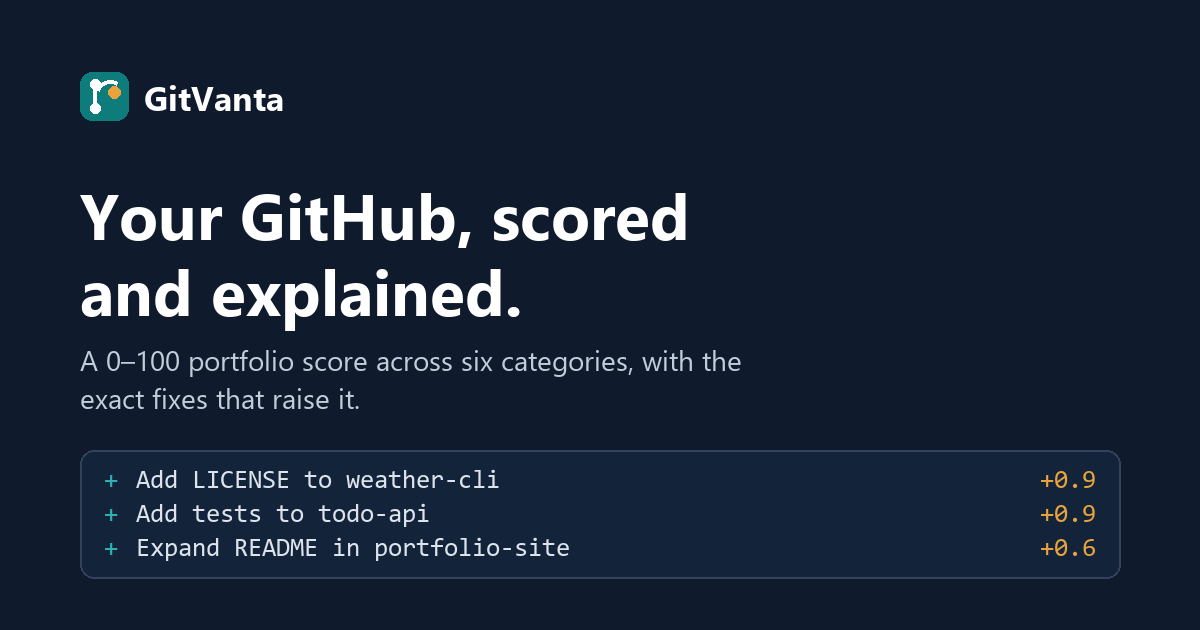
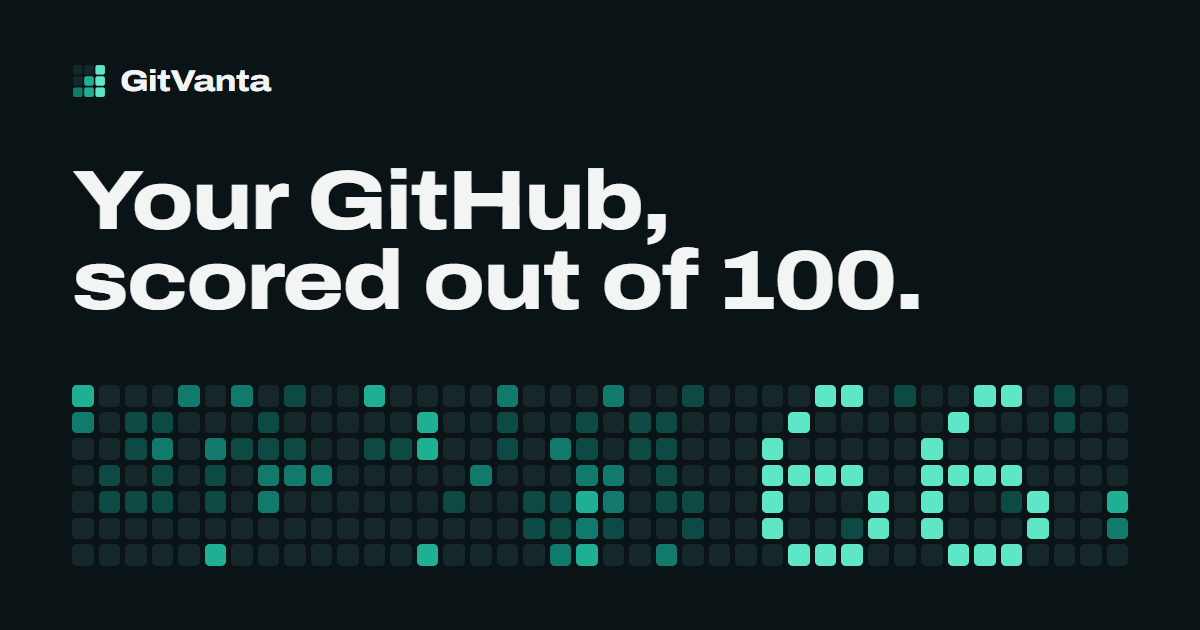
New visual identity: spruce neutrals, contribution-graph teal, Archivo
Five-level heat ramp (light and dark) as the brand palette, Archivo with a
wide display cut for headlines and scores, a logo built from contribution
cells, a matching favicon and Open Graph image, and a re-validated chart
colour pair.

Changed region(s): [[0.0617, 0.2714, 0.9558, 0.9349], [0.0617, 0.0905, 0.2467, 0.2111]]

diff --git a/frontend/src/index.css b/frontend/src/index.css
@@ -9,42 +9,52 @@
   - Teal is the brand colour; amber is reserved for score gains.
 */
 @theme {
-  --color-gray-50: #f7f9fc;
-  --color-gray-100: #eef2f7;
-  --color-gray-200: #dce3ec;
-  --color-gray-300: #c3cdda;
-  --color-gray-400: #8d9bb0;
-  --color-gray-500: #64748b;
-  --color-gray-600: #4a5871;
-  --color-gray-700: #33415a;
-  --color-gray-800: #1c2a40;
-  --color-gray-900: #0f1b2d;
-  --color-gray-950: #0a1322;
+  /* Spruce-tinted neutrals. */
+  --color-gray-50: #f3f5f4;
+  --color-gray-100: #e7ecea;
+  --color-gray-200: #d5dedb;
+  --color-gray-300: #b5c3bf;
+  --color-gray-400: #84968f;
+  --color-gray-500: #5b6d68;
+  --color-gray-600: #455752;
+  --color-gray-700: #33433f;
+  --color-gray-800: #1d2c29;
+  --color-gray-900: #12201e;
+  --color-gray-950: #0a1416;
 
-  --color-primary-50: #eaf7f7;
-  --color-primary-100: #ccedec;
-  --color-primary-200: #9bdad9;
-  --color-primary-300: #5fc2c0;
-  --color-primary-400: #2bb3b1;
-  --color-primary-500: #14989a;
-  --color-primary-600: #0e7c7b;
-  --color-primary-700: #0c6363;
-  --color-primary-800: #0d4f50;
-  --color-primary-900: #0d4143;
-  --color-primary-950: #062a2b;
+  /* Brand: the contribution-graph teal. */
+  --color-primary-50: #e9f7f3;
+  --color-primary-100: #c9ede3;
+  --color-primary-200: #a7dccf;
+  --color-primary-300: #6fcbb5;
+  --color-primary-400: #3db89c;
+  --color-primary-500: #1a9c83;
+  --color-primary-600: #13806c;
+  --color-primary-700: #0f6657;
+  --color-primary-800: #0d5247;
+  --color-primary-900: #0c433b;
+  --color-primary-950: #062824;
 
+  /* Amber is reserved for score gains. */
   --color-gain-50: #fdf6ea;
   --color-gain-100: #fae8c8;
   --color-gain-300: #f2c46f;
   --color-gain-400: #edb053;
   --color-gain-500: #e8a33d;
-  --color-gain-600: #c9831f;
-  --color-gain-700: #a1661a;
+  --color-gain-600: #b86e12;
+  --color-gain-700: #94570e;
+
+  /* Heat ramp, five levels like a contribution graph. Flipped for dark below. */
+  --color-heat-0: var(--heat-0);
+  --color-heat-1: var(--heat-1);
+  --color-heat-2: var(--heat-2);
+  --color-heat-3: var(--heat-3);
+  --color-heat-4: var(--heat-4);
 
   --color-github: #24292f;
 
-  --font-sans: 'IBM Plex Sans', system-ui, -apple-system, 'Segoe UI', sans-serif;
-  --font-mono: 'IBM Plex Mono', ui-monospace, SFMono-Regular, Menlo, monospace;
+  --font-sans: 'Archivo', system-ui, -apple-system, 'Segoe UI', sans-serif;
+  --font-mono: 'JetBrains Mono', ui-monospace, SFMono-Regular, Menlo, monospace;
 
   --animate-shimmer: shimmer 1.4s ease-in-out infinite;
   --animate-toast-in: toast-in 0.18s ease-out;
@@ -53,6 +63,14 @@
     0% { background-position: -400px 0; }
     100% { background-position: 400px 0; }
   }
+  @keyframes cell-in {
+    from { opacity: 0; transform: scale(0.4); }
+    to { opacity: 1; transform: scale(1); }
+  }
+  @keyframes digit-in {
+    from { background-color: var(--heat-1); }
+    to { background-color: var(--heat-4); }
+  }
   @keyframes toast-in {
     from { opacity: 0; transform: translateY(8px); }
     to { opacity: 1; transform: translateY(0); }
@@ -60,6 +78,20 @@
 }
 
 @layer base {
+  :root {
+    --heat-0: #e1e8e5;
+    --heat-1: #a7dccf;
+    --heat-2: #4dbfa6;
+    --heat-3: #13917a;
+    --heat-4: #0a5c4e;
+  }
+  .dark {
+    --heat-0: #16272a;
+    --heat-1: #0e4a44;
+    --heat-2: #127a6c;
+    --heat-3: #1faf95;
+    --heat-4: #5ee6c6;
+  }
   *,
   ::after,
   ::before,
@@ -128,14 +160,24 @@
     ::after {
       animation-duration: 0.01ms !important;
       animation-iteration-count: 1 !important;
+      animation-delay: 0s !important;
       transition-duration: 0.01ms !important;
       scroll-behavior: auto !important;
     }
   }
 }
 
+/* Wide, heavy Archivo: headlines, scores, the wordmark. */
+@utility font-display {
+  font-family: var(--font-sans);
+  font-stretch: 118%;
+  font-weight: 800;
+  letter-spacing: -0.02em;
+  font-variant-numeric: tabular-nums;
+}
+
 @utility card {
-  @apply rounded-xl border border-gray-200 bg-white dark:border-gray-800 dark:bg-gray-900;
+  @apply rounded-lg border border-gray-200 bg-white dark:border-gray-800 dark:bg-gray-900;
 }
 
 @utility input {
@@ -170,4 +212,43 @@
 @utility prose-gv {
   @apply text-gray-700 dark:text-gray-300;
   line-height: 1.65;
+}
+
+/* Contribution grid (components/brand/HeatGrid.tsx) */
+.heat {
+  --heat-gap: clamp(2px, 0.32vw, 5px);
+}
+.heat-grid {
+  display: grid;
+  grid-template-columns: repeat(var(--weeks-sm), minmax(0, 1fr));
+  column-gap: var(--heat-gap);
+}
+.heat-cells {
+  grid-template-rows: repeat(7, auto);
+  grid-auto-flow: column;
+  row-gap: var(--heat-gap);
+}
+.heat-cell {
+  display: block;
+  aspect-ratio: 1;
+  border-radius: 22%;
+}
+.heat-lead {
+  display: none;
+}
+@media (min-width: 640px) {
+  .heat-grid {
+    grid-template-columns: repeat(var(--weeks), minmax(0, 1fr));
+  }
+  .heat-lead {
+    display: block;
+  }
+}
+.heat-animate {
+  animation: cell-in 380ms cubic-bezier(0.2, 0.7, 0.3, 1) var(--d) both;
+}
+.heat-animate.heat-digit {
+  animation:
+    cell-in 380ms cubic-bezier(0.2, 0.7, 0.3, 1) var(--d) both,
+    digit-in 520ms ease-out var(--dd) both;
 }

diff --git a/frontend/src/components/ui/Brand.tsx b/frontend/src/components/ui/Brand.tsx
@@ -5,21 +5,35 @@ import { Moon, Sun, Sparkles, KeyRound } from 'lucide-react';
 import { useThemeStore } from '../../store/themeStore';
 import { AIMeta } from '../../types';
 
-/** The GitVanta mark: a branch whose tip is the score. */
+/** Three columns of contribution cells, stepping up to the right: a score rising. */
+const MARK_CELLS: Array<[number, number, number]> = [
+  // [column, row, level]
+  [0, 0, 0], [1, 0, 0], [2, 0, 4],
+  [0, 1, 0], [1, 1, 3], [2, 1, 4],
+  [0, 2, 2], [1, 2, 3], [2, 2, 4],
+];
+
+/** The GitVanta mark. Uses the heat ramp, so it follows the theme. */
 export const LogoMark: React.FC<{ className?: string }> = ({ className }) => (
-  <svg viewBox="0 0 32 32" className={clsx('h-8 w-8', className)} aria-hidden="true">
-    <rect width="32" height="32" rx="8" fill="#0E7C7B" />
-    <path d="M10 23V9m0 14c0-5 12-3 12-9" fill="none" stroke="#fff" strokeWidth="2.6" strokeLinecap="round" />
-    <circle cx="10" cy="9" r="2.6" fill="#fff" />
-    <circle cx="22" cy="12" r="3.2" fill="#E8A33D" />
-    <circle cx="10" cy="23" r="2.6" fill="#fff" />
+  <svg viewBox="0 0 32 32" className={clsx('h-7 w-7', className)} aria-hidden="true">
+    {MARK_CELLS.map(([c, r, l]) => (
+      <rect
+        key={`${c}${r}`}
+        x={1 + c * 10.5}
+        y={1 + r * 10.5}
+        width="9"
+        height="9"
+        rx="2"
+        style={{ fill: `var(--heat-${l})` }}
+      />
+    ))}
   </svg>
 );
 
 export const Logo: React.FC<{ to?: string; className?: string }> = ({ to = '/', className }) => (
-  <Link to={to} className={clsx('flex items-center gap-2 rounded-md', className)} aria-label="GitVanta home">
+  <Link to={to} className={clsx('flex items-center gap-2.5 rounded-md', className)} aria-label="GitVanta home">
     <LogoMark />
-    <span className="text-lg font-semibold tracking-tight text-gray-900 dark:text-white">GitVanta</span>
+    <span className="font-display text-[1.15rem] text-gray-900 dark:text-white">GitVanta</span>
   </Link>
 );
 

diff --git a/frontend/index.html b/frontend/index.html
@@ -7,8 +7,8 @@
     <meta name="description" content="GitVanta scores your GitHub portfolio from 0 to 100 across six categories, shows exactly how the score was calculated, and lists the fixes that raise it. Free, with a shareable public profile." />
     <link rel="canonical" href="__SITE_URL__/" />
     <link rel="icon" type="image/svg+xml" href="/favicon.svg" />
-    <meta name="theme-color" content="#f7f9fc" media="(prefers-color-scheme: light)" />
-    <meta name="theme-color" content="#0a1322" media="(prefers-color-scheme: dark)" />
+    <meta name="theme-color" content="#f3f5f4" media="(prefers-color-scheme: light)" />
+    <meta name="theme-color" content="#0a1416" media="(prefers-color-scheme: dark)" />
 
     <meta property="og:type" content="website" />
     <meta property="og:site_name" content="GitVanta" />
@@ -26,7 +26,7 @@
 
     <link rel="preconnect" href="https://fonts.googleapis.com" />
     <link rel="preconnect" href="https://fonts.gstatic.com" crossorigin />
-    <link href="https://fonts.googleapis.com/css2?family=IBM+Plex+Mono:wght@400;500&family=IBM+Plex+Sans:wght@400;500;600;700&display=swap" rel="stylesheet" />
+    <link href="https://fonts.googleapis.com/css2?family=Archivo:wdth,wght@62..125,100..900&family=JetBrains+Mono:wght@400;500&display=swap" rel="stylesheet" />
 
     <script>
       // Apply the saved theme before first paint to avoid a light flash.

diff --git a/frontend/src/lib/chartTheme.ts b/frontend/src/lib/chartTheme.ts
@@ -6,27 +6,27 @@ import { useThemeStore } from '../store/themeStore';
  * (dataviz validate_palette: all checks pass in light and dark).
  */
 const LIGHT = {
-  you: '#0A9490',
-  them: '#C9831F',
-  grid: '#EEF2F7',
-  axis: '#64748B',
+  you: '#0F8A72',
+  them: '#B86E12',
+  grid: '#E7ECEA',
+  axis: '#5B6D68',
   surface: '#FFFFFF',
   tooltipBg: '#FFFFFF',
-  tooltipBorder: '#DCE3EC',
-  ink: '#0F1B2D',
-  muted: '#64748B',
+  tooltipBorder: '#D5DEDB',
+  ink: '#12201E',
+  muted: '#5B6D68',
 };
 
 const DARK = {
-  you: '#14989A',
+  you: '#1A9C83',
   them: '#C9831F',
-  grid: '#1C2A40',
-  axis: '#8D9BB0',
-  surface: '#0F1B2D',
-  tooltipBg: '#0A1322',
-  tooltipBorder: '#33415A',
-  ink: '#F7F9FC',
-  muted: '#8D9BB0',
+  grid: '#1D2C29',
+  axis: '#84968F',
+  surface: '#12201E',
+  tooltipBg: '#0A1416',
+  tooltipBorder: '#33433F',
+  ink: '#F3F5F4',
+  muted: '#84968F',
 };
 
 export type ChartTheme = typeof LIGHT;
@@ -43,7 +43,7 @@ export function tooltipStyle(t: ChartTheme) {
       backgroundColor: t.tooltipBg,
       border: `1px solid ${t.tooltipBorder}`,
       borderRadius: 8,
-      boxShadow: '0 8px 24px -12px rgb(15 27 45 / 0.35)',
+      boxShadow: '0 8px 24px -12px rgb(10 20 22 / 0.35)',
       color: t.ink,
       fontSize: 13,
     },
